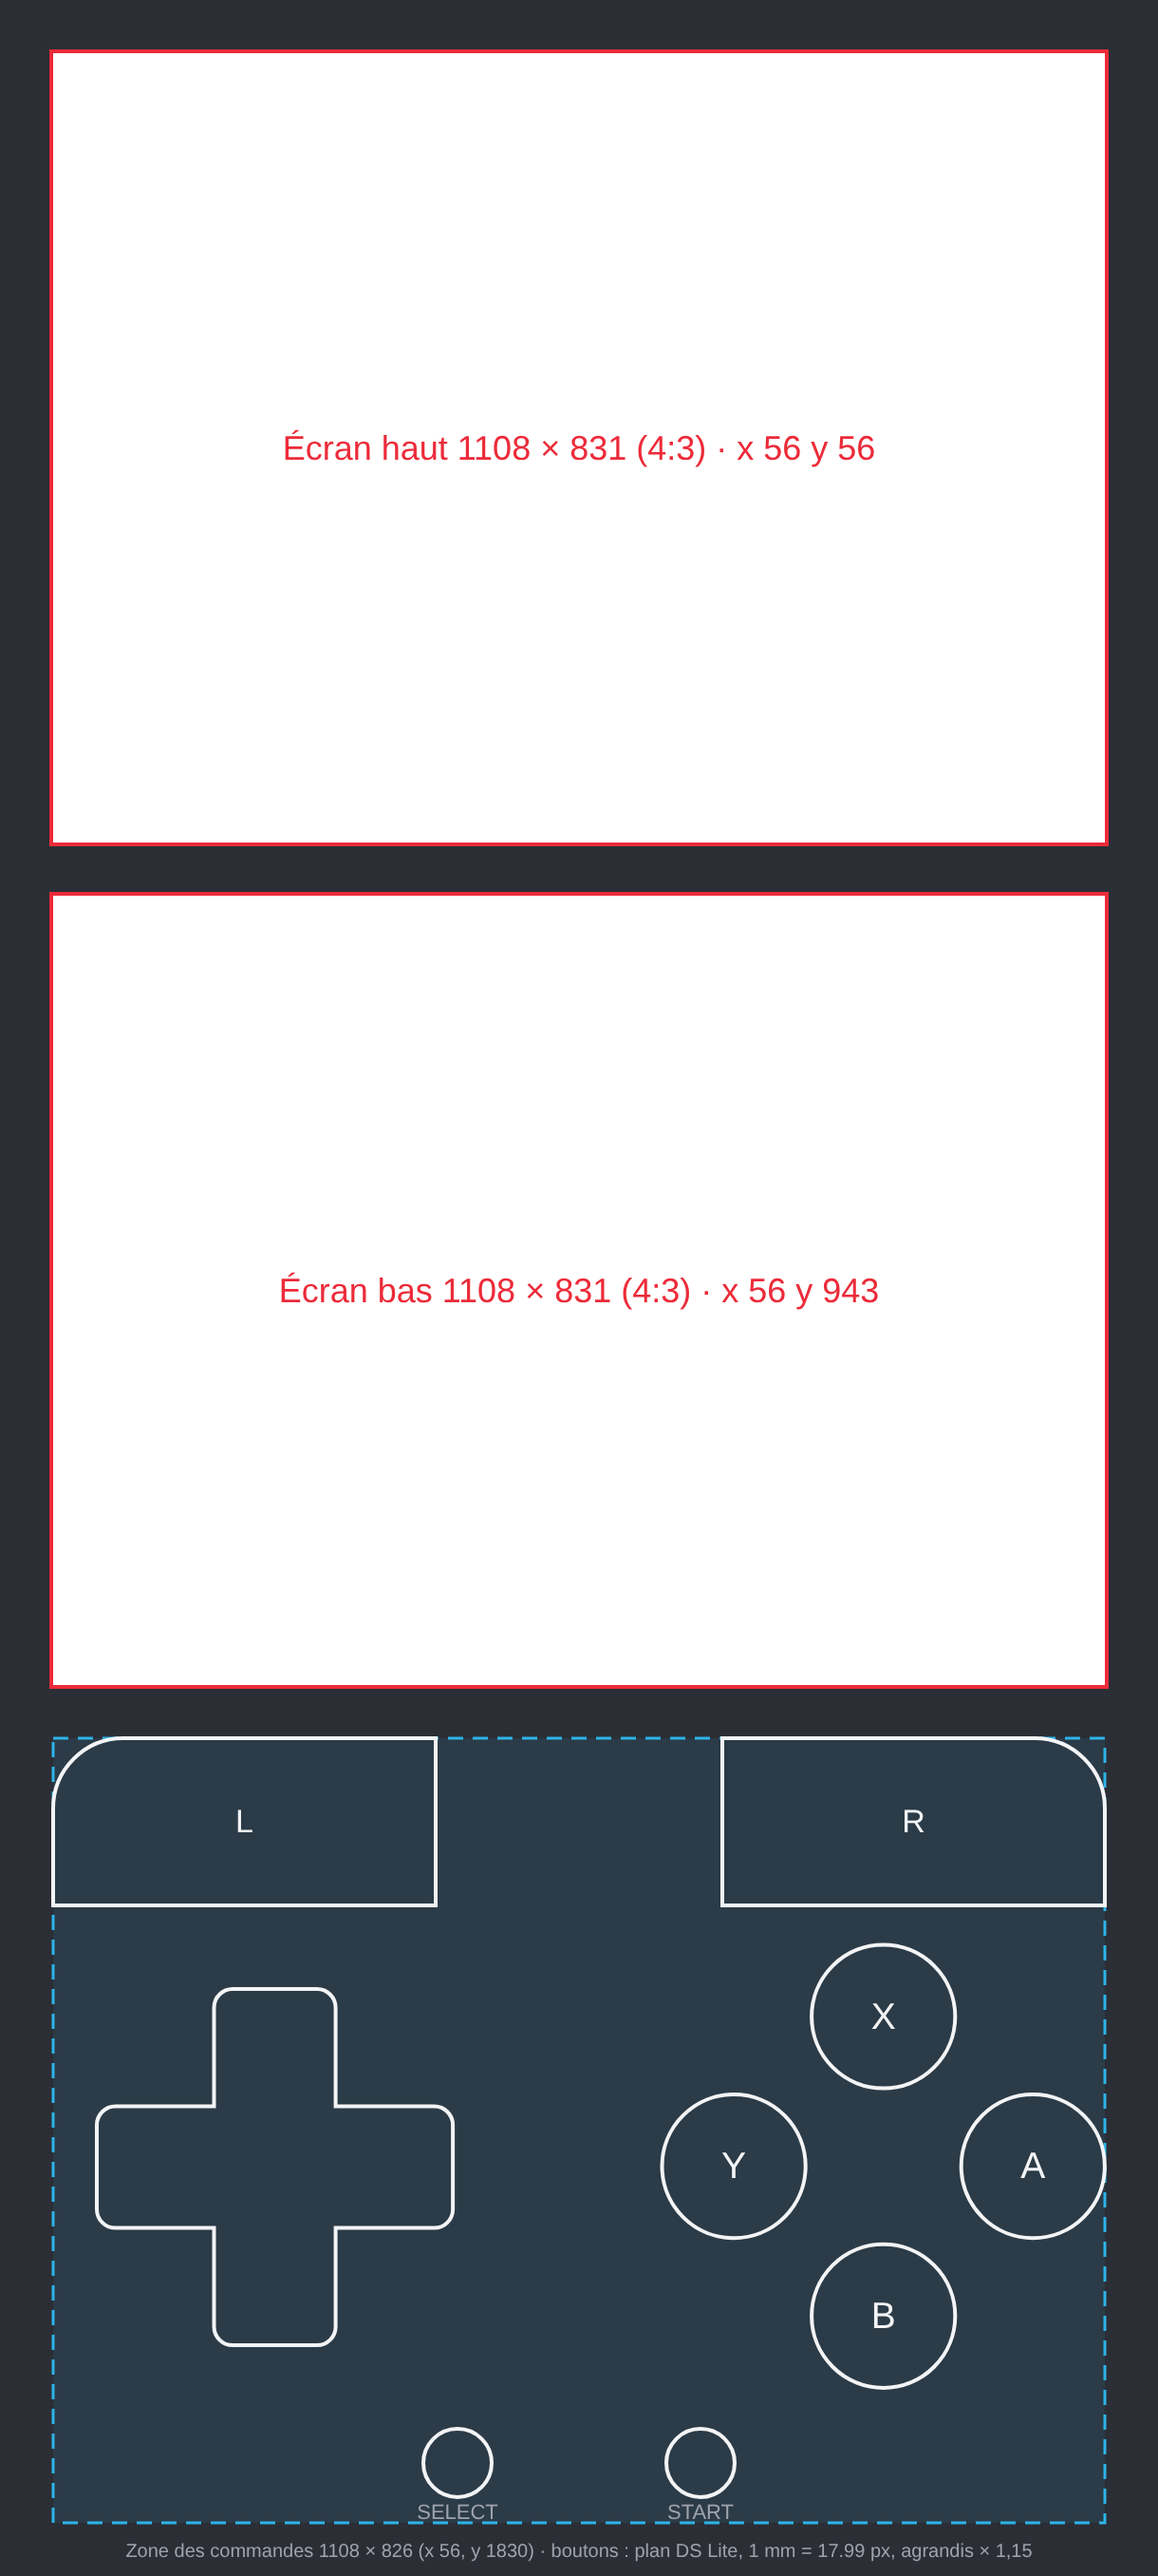
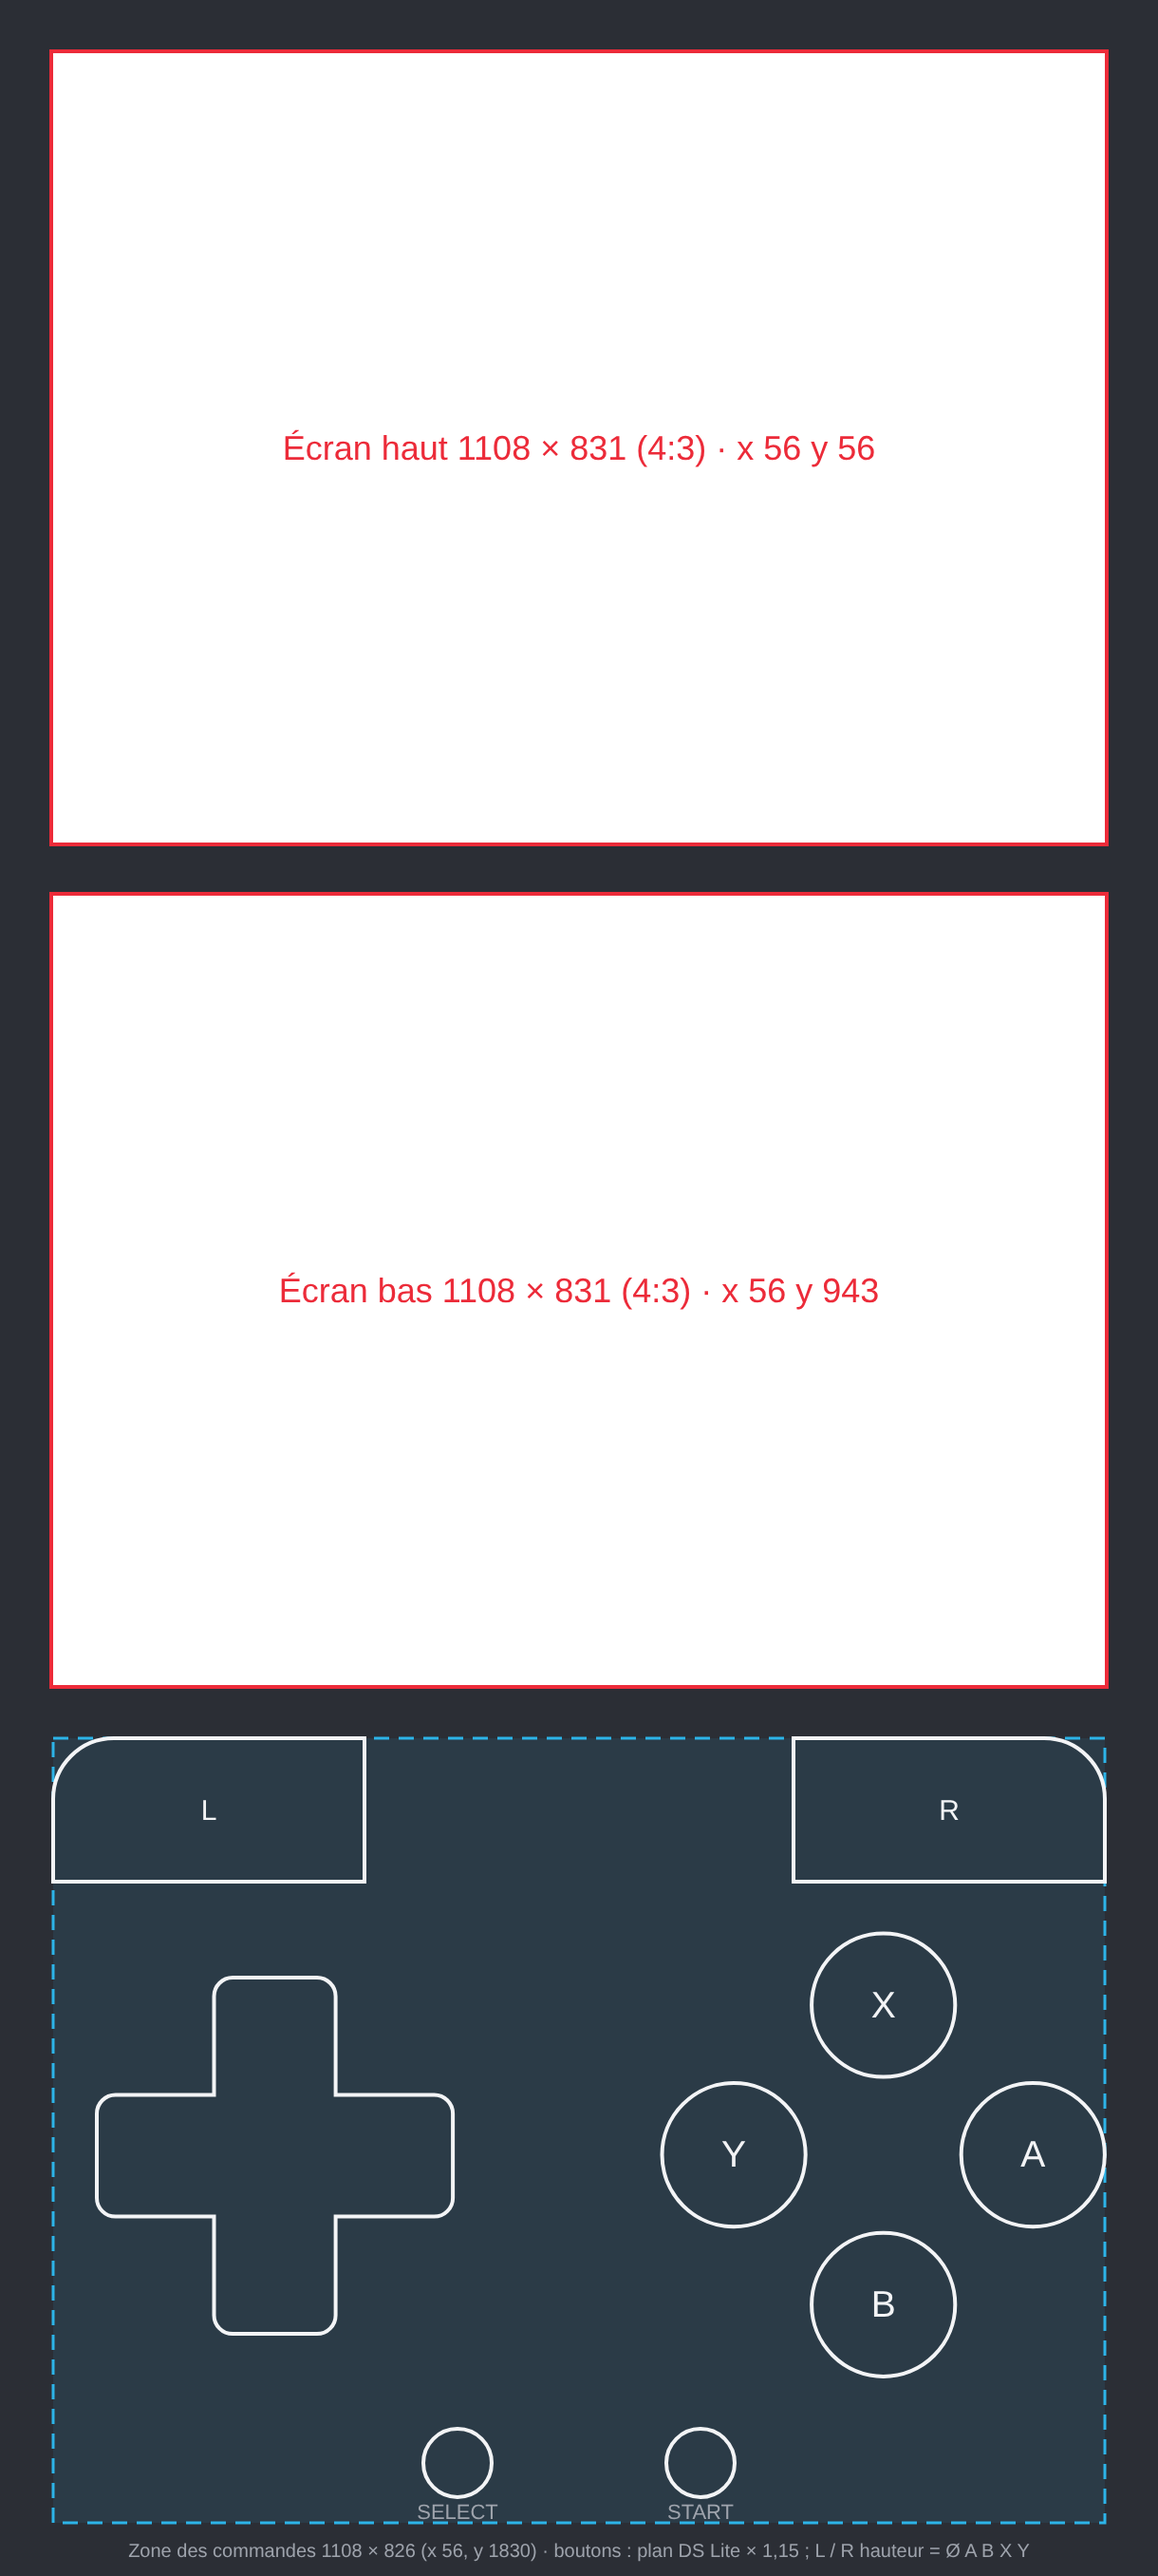
DS Classic: L and R as tall as an A / B / X / Y button
Owner's request: the bumpers looked too big against the other buttons. At
the DS Lite's 19.5 x 9 mm they were taller (176 px) than a face button
(151) and weighed about as much as the D-pad (71 000 vs 80 000 px2), though
on the console only their edge shows. Their height is now one A / B / X / Y
diameter, 151, at the DS Lite's 2.17:1: 328 x 151, corner 64 (the 0.42 x
height it had), letter back to 30.

The 25 px freed go above the clusters (55, then 54 above SELECT / START,
which do not move); D-pad and ABXY move up 12. The utility buttons between
the bumpers get back 80 px, 16 apart: their row (368) fits the 452 px now
between L and R.

PNG rendered from the SVG with Chromium, as before. The Kotlin was not
compiled: Gradle cannot resolve its dependencies in this environment.

Claude-Session: https://claude.ai/code/session_01FvKVTY1szefwkFGvgKjYRa

diff --git a/melonDS-android/app/src/main/java/me/magnum/melonds/impl/layout/ClassicLayoutProvider.kt b/melonDS-android/app/src/main/java/me/magnum/melonds/impl/layout/ClassicLayoutProvider.kt
@@ -13,8 +13,9 @@ import kotlin.math.roundToInt
 /**
  * Builds Pomegrade's "Classic" layout: the screens and buttons of the Punica DS skin template
  * (assets/consoles/skins/gabarit_skin_ds_1220x2712.svg), whose buttons are measured on the DS Lite plan at one
- * common scale, then enlarged 1.15 times (owner's choice) keeping their proportions and the clusters' mirror. The
- * template is scaled to fit the safe area, centred horizontally and anchored to its top.
+ * common scale, then enlarged 1.15 times (owner's choice) keeping their proportions and the clusters' mirror. L and
+ * R are as tall as an A / B / X / Y button (151 px) at the DS Lite's 2.17:1. The template is scaled to fit the
+ * safe area, centred horizontally and anchored to its top.
  *
  * Only a plain portrait window has a template; landscape, folding and dual-display variants fall back to the default
  * layout.
@@ -28,18 +29,18 @@ class ClassicLayoutProvider(private val defaultLayoutProvider: DefaultLayoutProv
         // Template rectangles (x, y, width, height), in template pixels
         val TOP_SCREEN = Rect(56, 56, 1108, 831)
         val BOTTOM_SCREEN = Rect(56, 943, 1108, 831)
-        val BUTTON_L = Rect(56, 1830, 403, 176)
-        val BUTTON_R = Rect(761, 1830, 403, 176)
-        val DPAD = Rect(102, 2094, 375, 375)
-        val BUTTONS = Rect(697, 2048, 467, 467)
+        val BUTTON_L = Rect(56, 1830, 328, 151)
+        val BUTTON_R = Rect(836, 1830, 328, 151)
+        val DPAD = Rect(102, 2082, 375, 375)
+        val BUTTONS = Rect(697, 2036, 467, 467)
         val BUTTON_START = Rect(702, 2557, 72, 72)
         val BUTTON_SELECT = Rect(446, 2557, 72, 72)
 
-        // Not on the DS: a row of four between L and R, so every input stays reachable. 64 px with 8 between them,
-        // so the row (280 px) fits the 302 px between the enlarged bumpers
-        const val UTILITY_SIZE = 64
-        const val UTILITY_SPACING = 8
-        const val UTILITY_TOP = 1830 + (176 - UTILITY_SIZE) / 2
+        // Not on the DS: a row of four between L and R, so every input stays reachable. 80 px with 16 between them,
+        // so the row (368 px) fits the 452 px between the bumpers
+        const val UTILITY_SIZE = 80
+        const val UTILITY_SPACING = 16
+        const val UTILITY_TOP = 1830 + (151 - UTILITY_SIZE) / 2
         val UTILITY_COMPONENTS = listOf(
             LayoutComponent.BUTTON_HINGE,
             LayoutComponent.BUTTON_TOGGLE_SOFT_INPUT,
